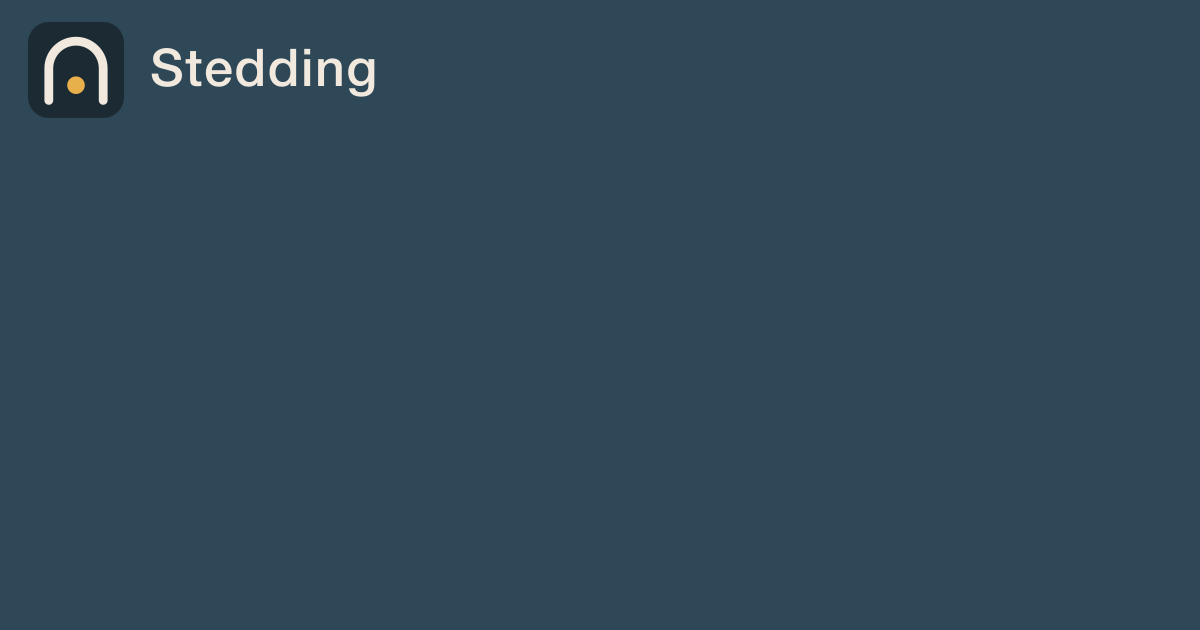
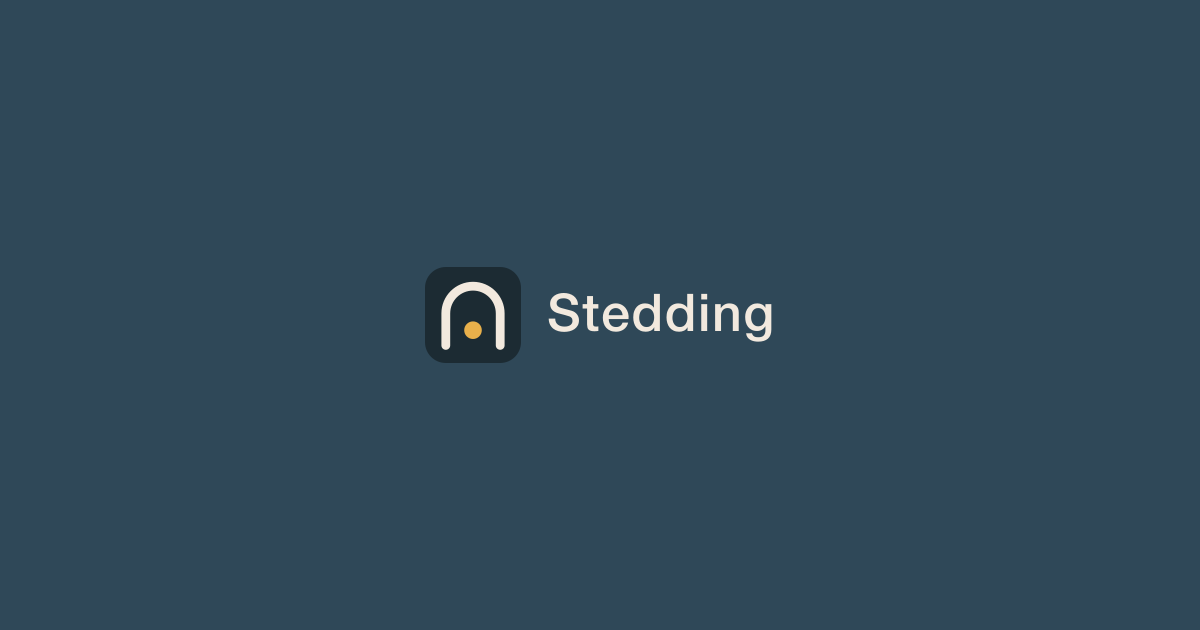
brand: the wordmark is centred in its box
The horizontal logo was 520 wide with the name ending 140 short of the right edge, so it sat off centre wherever it was framed (the site's press kit showed it so). The box is now 406 wide with 28 on every side, the mark and the name are centred in any box (the share image too), and textLength holds the name to its Helvetica Neue width in whatever font draws it.

Changed region(s): [[0.0, 0.0302, 0.3392, 0.2111], [0.3392, 0.4222, 0.6475, 0.6032]]

diff --git a/tooling/brand/generate.py b/tooling/brand/generate.py
@@ -42,14 +42,29 @@ def glyph(arch, hearth, size=120):
     return M.svg(M.mark(s, arch, hearth), size, size, "Stedding", M.DESC)
 
 
-def wordmark(bg, arch, hearth, text_color, w=520, h=140):
-    """Mark plus the name, for headers and README banners."""
+# The name's width in the wordmark, in its own units: "Stedding" in Helvetica Neue
+# Medium at 52 px is 218 wide, plus the 1.5 of letter spacing after each of its
+# first seven letters. textLength holds it to that width in whatever font draws
+# it, so the wordmark stays centred where Helvetica Neue is missing.
+WORD_W = 228
+WORD_GAP = 26
+
+
+def wordmark(bg, arch, hearth, text_color, w=406, h=140):
+    """Mark plus the name, centred in the box, for headers and README banners.
+
+    The default box leaves 28 on every side of the mark and the name (until
+    2026-11-03 the box was 520 wide and the name ended 140 short of its right
+    edge, so the logo sat off centre wherever it was shown in a frame)."""
     s = 96 / M.BOX
+    x0 = (w - (96 + WORD_GAP + WORD_W)) / 2
+    y0 = (h - 96) / 2
     body = (("" if bg is None else f'<rect width="{w}" height="{h}" fill="{bg}"/>')
-            + f'<g transform="translate(28,22)">'
+            + f'<g transform="translate({x0:g},{y0:g})">'
             + f'<rect width="96" height="96" rx="{M.CORNER * s:.2f}" fill="{M.SLATE if bg != M.SLATE else M.INK}"/>'
             + M.mark(s, arch, hearth) + '</g>'
-            + f'<text x="150" y="86" font-family="Helvetica Neue, Helvetica, Arial, sans-serif" '
+            + f'<text x="{x0 + 96 + WORD_GAP:g}" y="{y0 + 64:g}" textLength="{WORD_W}" lengthAdjust="spacingAndGlyphs" '
+              f'font-family="Helvetica Neue, Helvetica, Arial, sans-serif" '
               f'font-size="52" font-weight="500" letter-spacing="1.5" fill="{text_color}">Stedding</text>')
     return M.svg(body, w, h, "Stedding", M.DESC)
 
